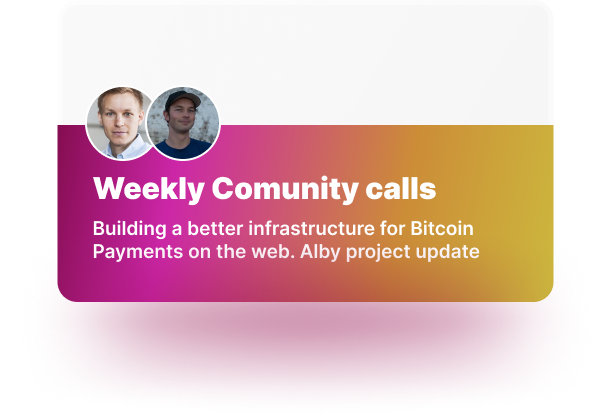
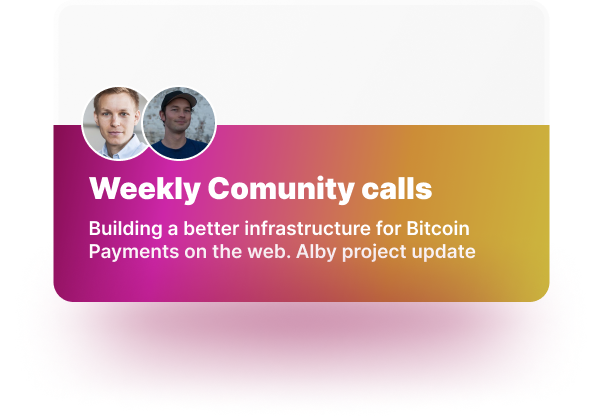
Make open source meet page responsive

diff --git a/src/components/home/opensourceMeetBanner/OpensourceMeetBanner.tsx b/src/components/home/opensourceMeetBanner/OpensourceMeetBanner.tsx
@@ -10,18 +10,14 @@ const OpensourceMeetBanner = () => {
   return (
     <div className={styles.container}>
       <div className={styles.leftSection}>
-        <div>
-          <Button
-            variant="outline"
-            component="a"
-            href={COMPONENT_DATA.button.redirectTo}
-            style={{
-              color: "black",
-            }}
-          >
-            {COMPONENT_DATA.button.text}
-          </Button>
-        </div>
+        <Button
+          variant="outline"
+          component="a"
+          href={COMPONENT_DATA.button.redirectTo}
+          className={styles.button}
+        >
+          {COMPONENT_DATA.button.text}
+        </Button>
         <Title order={1} weight={900}>
           {COMPONENT_DATA.title}
         </Title>

diff --git a/src/components/home/opensourceMeetBanner/OpensourceMeetBanner.module.css b/src/components/home/opensourceMeetBanner/OpensourceMeetBanner.module.css
@@ -1,19 +1,28 @@
 .container {
   background-color: var(--grey-bg);
-  padding: 10rem max(2rem, calc(50vw - 32rem)) 5rem;
+  padding: 7rem max(2rem, calc(50vw - 32rem)) 3rem;
   display: flex;
-  gap: 0.625rem;
+  gap: 1rem;
   justify-content: center;
   align-items: center;
+  flex-wrap: wrap-reverse;
 }
 
 .leftSection {
   display: flex;
   flex-direction: column;
   gap: 1.25rem;
+  width: 100%;
+  max-width: 24rem;
+}
+
+.button {
+  color: black;
+  overflow-wrap: break-word;
+  word-wrap: break-word;
 }
 
 .rightSection {
-  width: 38rem;
-  height: 18rem;
+  width: 36rem;
+  margin-top: 5rem;
 }
